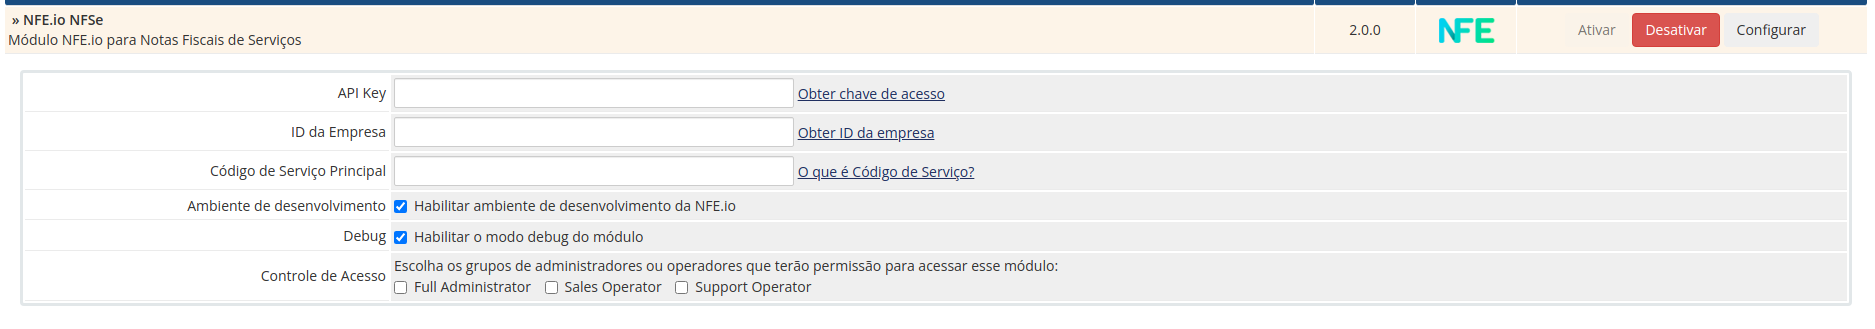
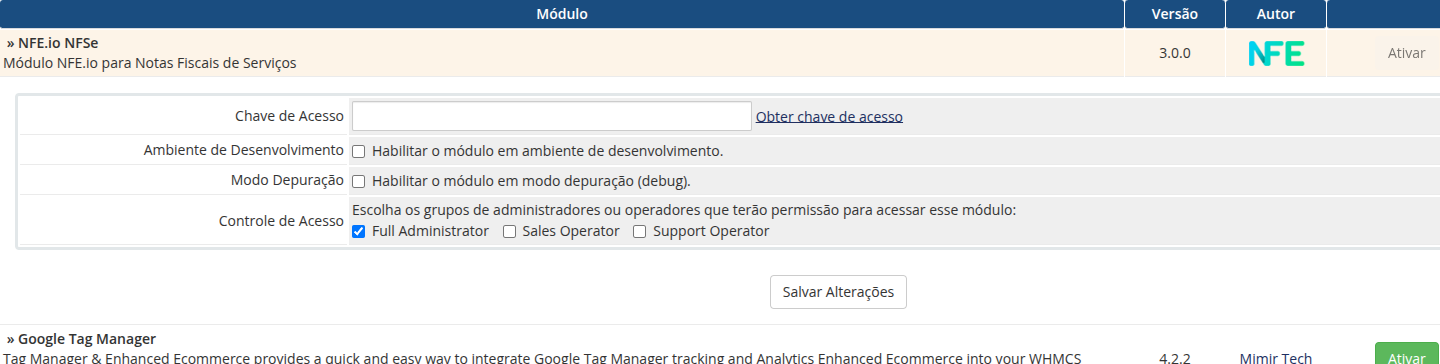
docs: update configuration and installation documentation; add new images

diff --git a/docs/configuracao.md b/docs/configuracao.md
@@ -7,41 +7,47 @@ title: Configuração
 
 Este documento irá mostrar como configurar com sucesso o [Módulo Nota Fiscal para WHMCS via NFE.io](https://github.com/nfe/whmcs-addon). Ela irá guiar passo a passo por todo o processo de configuração.
 
-## Configurações do Módulo
-
 Após a instalação e configuração inicial do addon como chave de API e código da empresa, é necessário realizar as configurações avançadas e rotinas de emissão das notas fiscais. Para isso acesse `Addons -> NFE.io NFSe -> Configurações`.
 
 ![](../assets/img/nfeio-whmcs-docs-configuracao-05.png)
 
 As configurações disponíveis estão descritas a seguir.
 
-### API Key
+## Definicoes de Emissão
 
-Chave de acesso privada gerado na sua conta NFE.io, necessária para a autenticação das chamadas à API.
+É possível configurar diferentes empresas a serem utilizados para emissão de notas fiscais pelo módulo, cada um com suas definições.
 
-> Configurado na etapa de instalação do módulo.
+![](../assets/img/nfeio-whmcs-docs-configuracao-06.png)
 
-### ID da Empresa
+Para adicionar uma nova empresa, clique no botão `Cadastrar Emissor` e preencha os campos obrigatórios.
 
-ID da empresa ao qual serão associadas as notas fiscais gerados pelo WHMCS.
+![](../assets/img/nfeio-whmcs-docs-configuracao-07.png)
 
-> Configurado na etapa de instalação do módulo.
+### Empresa
+
+Selecione a empresa que será configurada para emissão. Será exibida uma lista com todas as empresas cadastradas na sua conta NFE.io.
 
 ### Código de Serviço Principal
 
-Código de serviço que será usado como padrão para geração das notas fiscais pelo WHMCS.
-
-> Configurado na etapa de instalação do módulo.
+Código de serviço que será usado como padrão para geração das notas fiscais pelo WHMCS para este emissor. O código de serviço padrão será utilizado para todos os produtos/serviços que não possuírem um código de serviço personalizado definido.
 
 ### Retenção de ISS
 
 Alíquota em porcentagem (%) padrão de retenção de ISS. Será aplicado a todos os produtos/serviços.
 
+### Empresa Padrão
+
+Marque esta opção para definir a empresa como padrão. A empresa padrão será utilizada para emissão de notas fiscais quando houver mais de uma empresa configurada. Caso haja apenas uma empresa configurada, a mesma será utilizada como padrão.
+
+## Configurações Globais
+
+As configurações globais são aplicadas a todas as empresas cadastradas no módulo. As opções disponíveis estão descritas a seguir.
+
 ### Deduzir descontos da fatura na NF
 
 Deduzir descontos/abatimentos existentes na fatura do valor total da nota a ser emitida. Quando uma fatura possuir um item de desconto ou item com valor negativo, o mesmo será deduzido do valor total da nota a ser emitida. Se uma fatura possuir vários itens de desconto para diferentes serviços, os descontos serão somados e descontados com base no grupo de código de serviço.
 
-Opção habilitada por padrão.
+> Opção habilitada por padrão.
 
 ### Quando emitir NFE
 
@@ -59,7 +65,7 @@ A NFSe será emitida apenas quando a fatura registrar um pagamento. Esse pagamen
 
 Número de dias após o pagamento da fatura que as notas devem ser emitidas. Informe quantos dias após o registro do pagamento em uma fatura a NFSe será emitida.
 
-**Atenção:** agendar emissão de notas desativa a configuração **Quando emitir NFE**.
+> **Atenção:** agendar emissão de notas desativa a configuração **Quando emitir NFE**.
 
 ### Cancelar NFE Quando Cancelar Fatura
 

diff --git a/docs/instalacao.md b/docs/instalacao.md
@@ -17,8 +17,8 @@ Antes de realizar a instalação do módulo, leia com atenção as informações
 Os requisitos a seguir são necessários para o funcionamento adequado do módulo e integração.
 
 1. WHMCS versão 8 ou superior;
-2. PHP 7.2 ou superior;
-3. Chave de API da NFE.io;
+2. PHP 7.4 ou superior;
+3. Chave de API da [NFE.io](https://nfe.io);
 4. Automação do WHMCS devidamente configurada ([https://docs.whmcs.com/Automation_Settings](https://docs.whmcs.com/Automation_Settings));
 5. Tarefas cron do Sistema sendo executadas conforme recomendações do WHMCS [https://docs.whmcs.com/Crons#System_Cron](https://docs.whmcs.com/Crons#System_Cron).
 
@@ -73,11 +73,7 @@ Por exemplo, tendo o WHMCS instalado em `public_html`, carregue o diretório `mo
 
 Após realizar o carregamento dos arquivos do módulo, ele está disponível para ativação e configuração no WHMCS.
 
-Veja a seguir os passos para ativação do módulo no WHMCS 8 e WHMCS 7.
-
-#### WHMCS 8.X
-
-Para ativar o módulo adicional no WHMCS versão 8.x vá até o ícone de chave no canto superior direito e clique em `Opções`.
+Para ativar o módulo adicional no WHMCS vá até o ícone de chave no canto superior direito e clique em `Opções`.
 
 ![](../assets/img/nfeio-whmcs-docs-instalacao-03.png)
 
@@ -103,21 +99,6 @@ Chave de acesso privada gerado na sua conta NFE.io, necessária para a autentica
 
 Obtenha uma chave de acesso a API neste link [https://app.nfe.io/account/apikeys](https://app.nfe.io/account/apikeys)
 
-#### ID da Empresa
-
-> campo obrigatório
-
-Informe o ID da empresa ao qual serão associadas as notas fiscais gerados pelo WHMCS.
-
-Obtenha o ID da empresa neste link [https://app.nfe.io/companies/](https://app.nfe.io/account/apikeys)
-
-#### Código do Serviço Principal
-
-> campo obrigatório
-
-Código de serviço que será usado como padrão para geração das notas fiscais pelo WHMCS. Este código irá variar de acordo com a categoria de tributação do negócio no município. 
-
-Saiba mais sobre o código de serviço neste link [https://nfe.io/docs/nota-fiscal-servico/conceitos-nfs-e/#o-que-e-codigo-de-servico](https://app.nfe.io/account/apikeys)
 
 #### Ambiente de desenvolvimento
 
@@ -131,7 +112,7 @@ Marque essa opção para salvar informações de diagnóstico no Log de Módulo 
 
 Escolha os grupos de administradores ou  operadores que terão para acessar o módulo.
 
-> **dics:** informe todos os grupos de operadores que precisem acessar e operar o módulo. 
+> **Dica:** informe todos os grupos de operadores que necessitem acessar e operar o módulo. 
 
 
 Após realizar a instalação e configuração inicial, siga para as configurações detalhadas do módulo em [https://nfe.github.io/whmcs-addon/docs/configuracao](https://nfe.github.io/whmcs-addon/docs/instalacao/)
